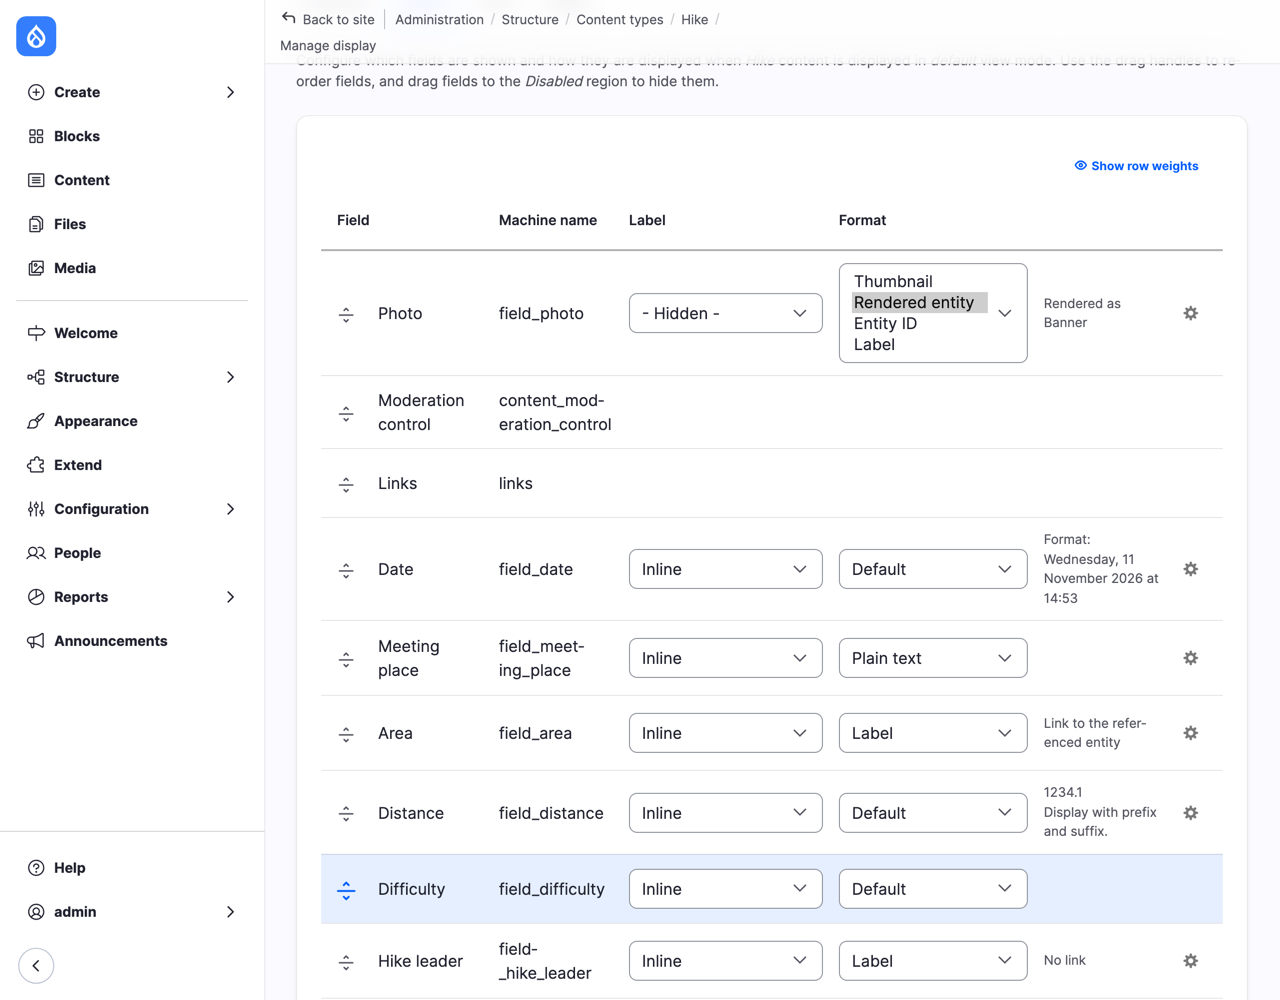
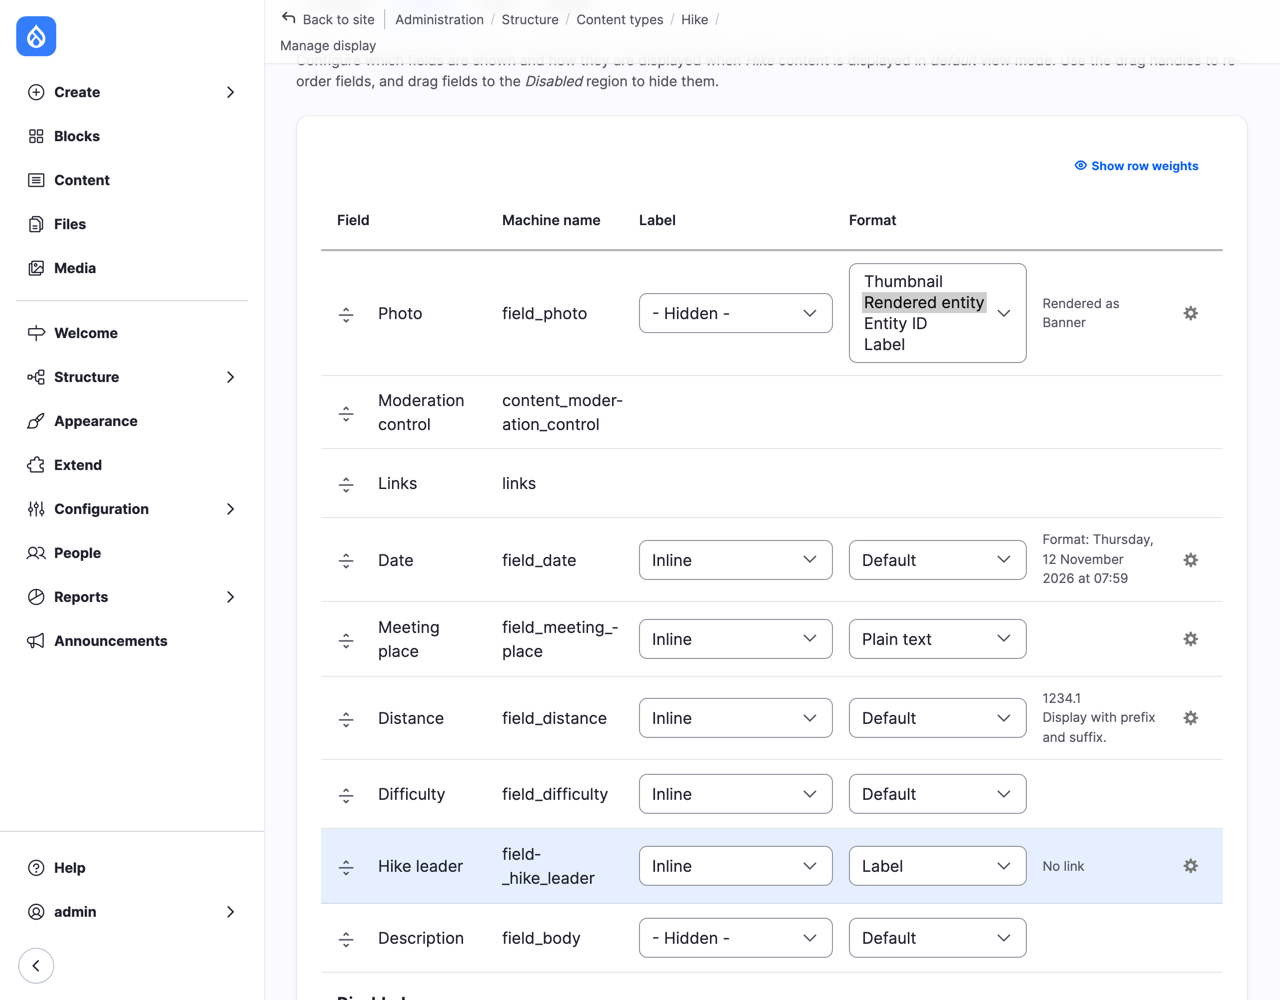
Chapter 9: retake the widget and formatter screenshots in the Chapter 9 state
hide_later() in tools/screenshots.py takes out of the page what later
chapters add (Area, Simple XML Sitemap, URL redirects, Language and
Elevation gain rows; on the hike page the logo and green colour, the
Hikes and Albums links, the sidebar, the footer blocks, Albums from this
hike and the language switcher). as_visitor() gets a prepare callback.

diff --git a/tools/screenshots.py b/tools/screenshots.py
@@ -567,12 +567,14 @@ foreach (['node.hike.teaser', 'node.hike.card', 'node.news.teaser', 'node.news.c
     subprocess.run(["ddev", "drush", "cache:rebuild"], cwd=site["dir"], check=True, capture_output=True)
 
 
-def as_visitor(page: Page, site: dict, path: str, name: str, width: int = WIDTH) -> None:
-    """A full-page screenshot of path, logged out, in a window of its own."""
+def as_visitor(page: Page, site: dict, path: str, name: str, width: int = WIDTH, prepare=None) -> None:
+    """A full-page screenshot of path, logged out, in a window of its own. prepare(page) runs before it's taken."""
     context = page.context.browser.new_context(viewport={"width": width, "height": 1000}, device_scale_factor=2, ignore_https_errors=True)
     visit = context.new_page()
     visit.goto(site["url"] + path)
     visit.wait_for_load_state("networkidle")
+    if prepare:
+        prepare(visit)
     save(visit, name, full_page=True)
     context.close()
 
@@ -1132,15 +1134,47 @@ $c = $d->getComponent('field_photo'); $c['settings']['view_mode'] = 'default'; $
     context.close()
 
 
+# What later chapters add to Hike's form and display: Area (10), Simple XML Sitemap and URL redirects (17),
+# Language (18), Elevation gain (21).
+LATER_ROWS = ["field-area", "simple-sitemap", "url-redirects", "langcode", "field-elevation-gain"]
+# What later chapters add to the hike page: the logo and green colour (16), the Hikes and Albums menu links,
+# the breadcrumb's Upcoming hikes, the sidebar and the footer's blocks (14), Albums from this hike (13),
+# the language switcher (18), and Area (10).
+LATER_PAGE = [
+    ".site-branding__logo", "#block-olivero-languageswitcher", ".region--sidebar", ".region--footer-top",
+    "#block-olivero-footer", "#block-olivero-albums-from-this-hike", ".field--name-field-area",
+]
+
+
+def hide_later(page: Page, rows: list[str] = (), elements: list[str] = ()) -> None:
+    """Takes out of the page what later chapters add, so a screenshot taken now looks like an earlier chapter's.
+
+    rows are table row ids (Manage form display, Manage display); elements are CSS selectors on a visitor page.
+    """
+    page.evaluate("""([rows, elements]) => {
+        rows.forEach(id => document.getElementById(id)?.remove());
+        elements.forEach(s => document.querySelectorAll(s).forEach(e => e.remove()));
+        if (elements.length) {
+            document.documentElement.removeAttribute('style');
+            document.querySelectorAll('.primary-nav__menu-item--level-1').forEach(li => {
+                if (!['Home', 'About', 'Join us'].includes(li.querySelector('a, button')?.innerText.trim())) li.remove();
+            });
+            document.querySelectorAll('.breadcrumb__item').forEach((li, i) => { if (i > 0) li.remove(); });
+        }
+    }""", [list(rows), list(elements)])
+    page.wait_for_timeout(300)
+
+
 def widgets_formatters_steps(page: Page, site: dict, snap) -> None:
     """Chapter 9: the Media library widget, and Thumbnail compared with Rendered entity.
 
-    Only looks at the site as it is (any chapter from 9 on): the Thumbnail steps save Hike's
-    display, and the display is put back as it was afterwards.
+    Only looks at the site as it is (any chapter from 9 on), taking out what later chapters add
+    (hide_later): the Thumbnail steps save Hike's display, and the display is put back as it was afterwards.
     """
     url = site["url"]
     page.goto(url + "/admin/structure/types/manage/hike/form-display")
     page.wait_for_load_state("networkidle")
+    hide_later(page, LATER_ROWS)
     scroll_to(page, "tr:has-text('field_photo')", 250)
     snap("09-photo-widget")
 
@@ -1153,6 +1187,7 @@ def widgets_formatters_steps(page: Page, site: dict, snap) -> None:
         select = "select[name='fields[field_photo][type]']"
         # A screenshot can't show a native drop-down open, so show the select as a list.
         page.evaluate(f"""() => {{ const s = document.querySelector("{select}"); s.size = s.options.length; s.style.height = 'auto'; }}""")
+        hide_later(page, LATER_ROWS)
         scroll_to(page, "tr:has-text('field_photo')", 250)
         page.wait_for_timeout(500)
         snap("09-photo-formatters")
@@ -1165,11 +1200,12 @@ def widgets_formatters_steps(page: Page, site: dict, snap) -> None:
         prefix = field_settings(page, "field_photo")
         page.select_option(f"select[name='{prefix}[image_style]']", "large")
         page.select_option(f"select[name='{prefix}[image_link]']", "")
+        hide_later(page, LATER_ROWS)
         scroll_to(page, "tr:has-text('field_photo')", 150)
         snap("09-photo-thumbnail-settings")
         field_settings_update(page, "field_photo")
         save_display(page)
-        as_visitor(page, site, "/hikes/turnhouse-hill", "09-hike-thumbnail")
+        as_visitor(page, site, "/hikes/turnhouse-hill", "09-hike-thumbnail", prepare=lambda p: hide_later(p, elements=LATER_PAGE))
     finally:
         drush_php(site, f"""$d = \\Drupal::entityTypeManager()->getStorage('entity_view_display')->load('node.hike.default');
 $d->setComponent('field_photo', json_decode('{json.dumps(component)}', TRUE))->save();""")
